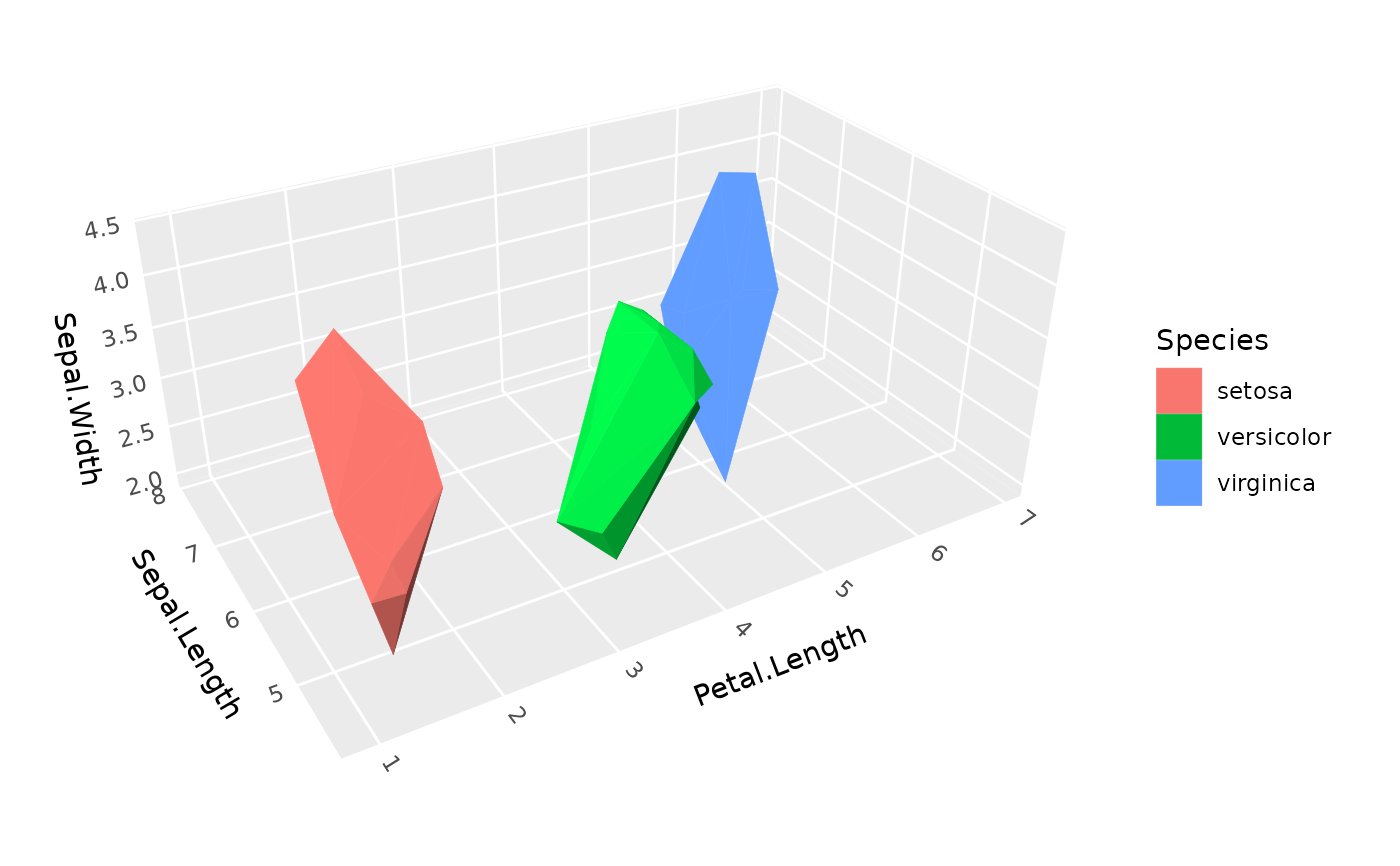
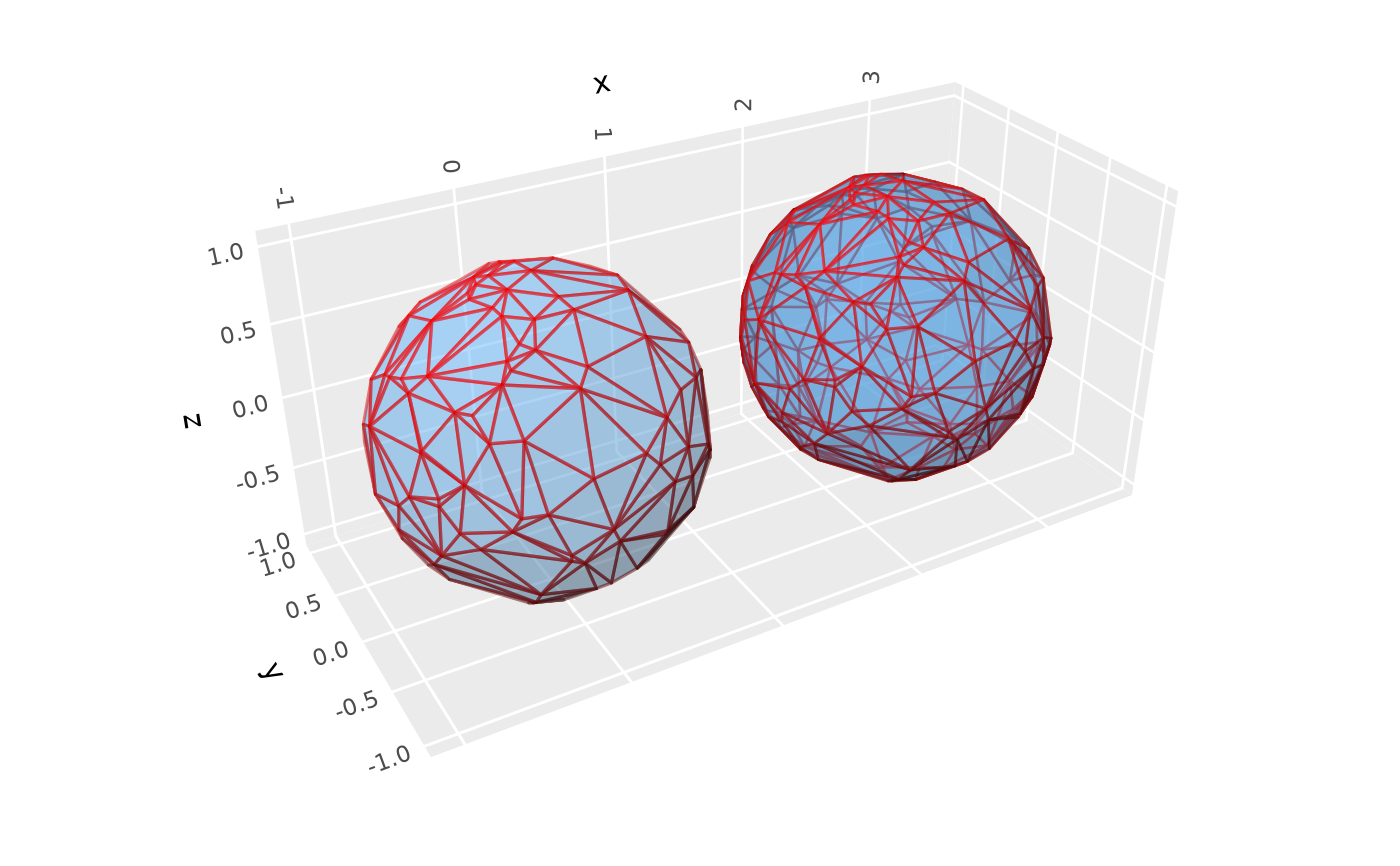
Deploying to gh-pages from @ matthewkling/ggcube@f3ec59e791022543f60313794790ce4c99ce4e73 🚀

diff --git a/reference/geom_hull_3d.html b/reference/geom_hull_3d.html
@@ -205,6 +205,17 @@ default geometry with depth sorting, <code><a href="light.html">light()</a></cod
 <span class="r-in"><span>  <span class="fu"><a href="coord_3d.html">coord_3d</a></span><span class="op">(</span><span class="op">)</span></span></span>
 <span class="r-plt img"><img src="geom_hull_3d-1.png" alt="" width="700" height="433"></span>
 <span class="r-in"><span></span></span>
+<span class="r-in"><span><span class="co"># Alpha shape (for sphere data, gives similar result to convex)</span></span></span>
+<span class="r-in"><span><span class="co"># \donttest{</span></span></span>
+<span class="r-in"><span><span class="fu"><a href="https://ggplot2.tidyverse.org/reference/ggplot.html" class="external-link">ggplot</a></span><span class="op">(</span><span class="va">sphere_points</span>, <span class="fu"><a href="aes.html">aes</a></span><span class="op">(</span><span class="va">x</span>, <span class="va">y</span>, <span class="va">z</span><span class="op">)</span><span class="op">)</span> <span class="op">+</span></span></span>
+<span class="r-in"><span>  <span class="fu">geom_hull_3d</span><span class="op">(</span>method <span class="op">=</span> <span class="st">"alpha"</span>, radius <span class="op">=</span> <span class="fl">2</span>, fill <span class="op">=</span> <span class="st">"gray40"</span><span class="op">)</span> <span class="op">+</span></span></span>
+<span class="r-in"><span>  <span class="fu"><a href="coord_3d.html">coord_3d</a></span><span class="op">(</span><span class="op">)</span></span></span>
+<span class="r-wrn co"><span class="r-pr">#&gt;</span> <span class="warning">Warning: </span>RGL: unable to open X11 display</span>
+<span class="r-wrn co"><span class="r-pr">#&gt;</span> <span class="warning">Warning: </span>'rgl.init' failed, will use the null device.</span>
+<span class="r-wrn co"><span class="r-pr">#&gt;</span> See '?rgl.useNULL' for ways to avoid this warning.</span>
+<span class="r-plt img"><img src="geom_hull_3d-2.png" alt="" width="700" height="433"></span>
+<span class="r-in"><span><span class="co"># }</span></span></span>
+<span class="r-in"><span></span></span>
 <span class="r-in"><span><span class="co"># Use `cull_backfaces = FALSE` to render far side of hull</span></span></span>
 <span class="r-in"><span><span class="fu"><a href="https://ggplot2.tidyverse.org/reference/ggplot.html" class="external-link">ggplot</a></span><span class="op">(</span><span class="va">sphere_points</span>, <span class="fu"><a href="aes.html">aes</a></span><span class="op">(</span><span class="va">x</span>, <span class="va">y</span>, <span class="va">z</span><span class="op">)</span><span class="op">)</span> <span class="op">+</span></span></span>
 <span class="r-in"><span>  <span class="fu">geom_hull_3d</span><span class="op">(</span> <span class="co"># default culling for comparison</span></span></span>
@@ -215,20 +226,15 @@ default geometry with depth sorting, <code><a href="light.html">light()</a></cod
 <span class="r-in"><span>    method <span class="op">=</span> <span class="st">"convex"</span>, light <span class="op">=</span> <span class="cn">NULL</span>,</span></span>
 <span class="r-in"><span>    fill <span class="op">=</span> <span class="st">"steelblue"</span>, color <span class="op">=</span> <span class="st">"darkred"</span>, linewidth <span class="op">=</span> <span class="fl">.5</span>, alpha <span class="op">=</span> <span class="fl">.5</span><span class="op">)</span> <span class="op">+</span></span></span>
 <span class="r-in"><span>  <span class="fu"><a href="coord_3d.html">coord_3d</a></span><span class="op">(</span>scales <span class="op">=</span> <span class="st">"fixed"</span><span class="op">)</span></span></span>
-<span class="r-plt img"><img src="geom_hull_3d-2.png" alt="" width="700" height="433"></span>
+<span class="r-plt img"><img src="geom_hull_3d-3.png" alt="" width="700" height="433"></span>
 <span class="r-in"><span></span></span>
 <span class="r-in"><span><span class="co"># Use grouping to build separate hulls for data subsets</span></span></span>
 <span class="r-in"><span><span class="fu"><a href="https://ggplot2.tidyverse.org/reference/ggplot.html" class="external-link">ggplot</a></span><span class="op">(</span><span class="va">iris</span>, <span class="fu"><a href="aes.html">aes</a></span><span class="op">(</span><span class="va">Petal.Length</span>, <span class="va">Sepal.Length</span>, <span class="va">Sepal.Width</span>,</span></span>
 <span class="r-in"><span>                 color <span class="op">=</span> <span class="va">Species</span>, fill <span class="op">=</span> <span class="va">Species</span><span class="op">)</span><span class="op">)</span> <span class="op">+</span></span></span>
 <span class="r-in"><span>      <span class="fu">geom_hull_3d</span><span class="op">(</span><span class="op">)</span> <span class="op">+</span></span></span>
 <span class="r-in"><span>      <span class="fu"><a href="coord_3d.html">coord_3d</a></span><span class="op">(</span>scales <span class="op">=</span> <span class="st">"fixed"</span><span class="op">)</span></span></span>
-<span class="r-plt img"><img src="geom_hull_3d-3.png" alt="" width="700" height="433"></span>
-<span class="r-in"><span></span></span>
-<span class="r-in"><span><span class="co"># Alpha shape (for sphere data, gives similar result to convex)</span></span></span>
-<span class="r-in"><span><span class="fu"><a href="https://ggplot2.tidyverse.org/reference/ggplot.html" class="external-link">ggplot</a></span><span class="op">(</span><span class="va">sphere_points</span>, <span class="fu"><a href="aes.html">aes</a></span><span class="op">(</span><span class="va">x</span>, <span class="va">y</span>, <span class="va">z</span><span class="op">)</span><span class="op">)</span> <span class="op">+</span></span></span>
-<span class="r-in"><span>  <span class="fu">geom_hull_3d</span><span class="op">(</span>method <span class="op">=</span> <span class="st">"alpha"</span>, radius <span class="op">=</span> <span class="fl">2</span>, fill <span class="op">=</span> <span class="st">"gray40"</span><span class="op">)</span> <span class="op">+</span></span></span>
-<span class="r-in"><span>  <span class="fu"><a href="coord_3d.html">coord_3d</a></span><span class="op">(</span><span class="op">)</span></span></span>
 <span class="r-plt img"><img src="geom_hull_3d-4.png" alt="" width="700" height="433"></span>
+<span class="r-in"><span></span></span>
 </code></pre></div>
     </div>
   </main><aside class="col-md-3"><nav id="toc" aria-label="Table of contents"><h2>On this page</h2>

diff --git a/reference/geom_hull_3d.md b/reference/geom_hull_3d.md
@@ -195,6 +195,17 @@ ggplot(sphere_points, aes(x, y, z)) +
   coord_3d()
 
 
+# Alpha shape (for sphere data, gives similar result to convex)
+# \donttest{
+ggplot(sphere_points, aes(x, y, z)) +
+  geom_hull_3d(method = "alpha", radius = 2, fill = "gray40") +
+  coord_3d()
+#> Warning: RGL: unable to open X11 display
+#> Warning: 'rgl.init' failed, will use the null device.
+#> See '?rgl.useNULL' for ways to avoid this warning.
+
+# }
+
 # Use `cull_backfaces = FALSE` to render far side of hull
 ggplot(sphere_points, aes(x, y, z)) +
   geom_hull_3d( # default culling for comparison
@@ -213,9 +224,4 @@ ggplot(iris, aes(Petal.Length, Sepal.Length, Sepal.Width,
       geom_hull_3d() +
       coord_3d(scales = "fixed")
 
-
-# Alpha shape (for sphere data, gives similar result to convex)
-ggplot(sphere_points, aes(x, y, z)) +
-  geom_hull_3d(method = "alpha", radius = 2, fill = "gray40") +
-  coord_3d()
 ```